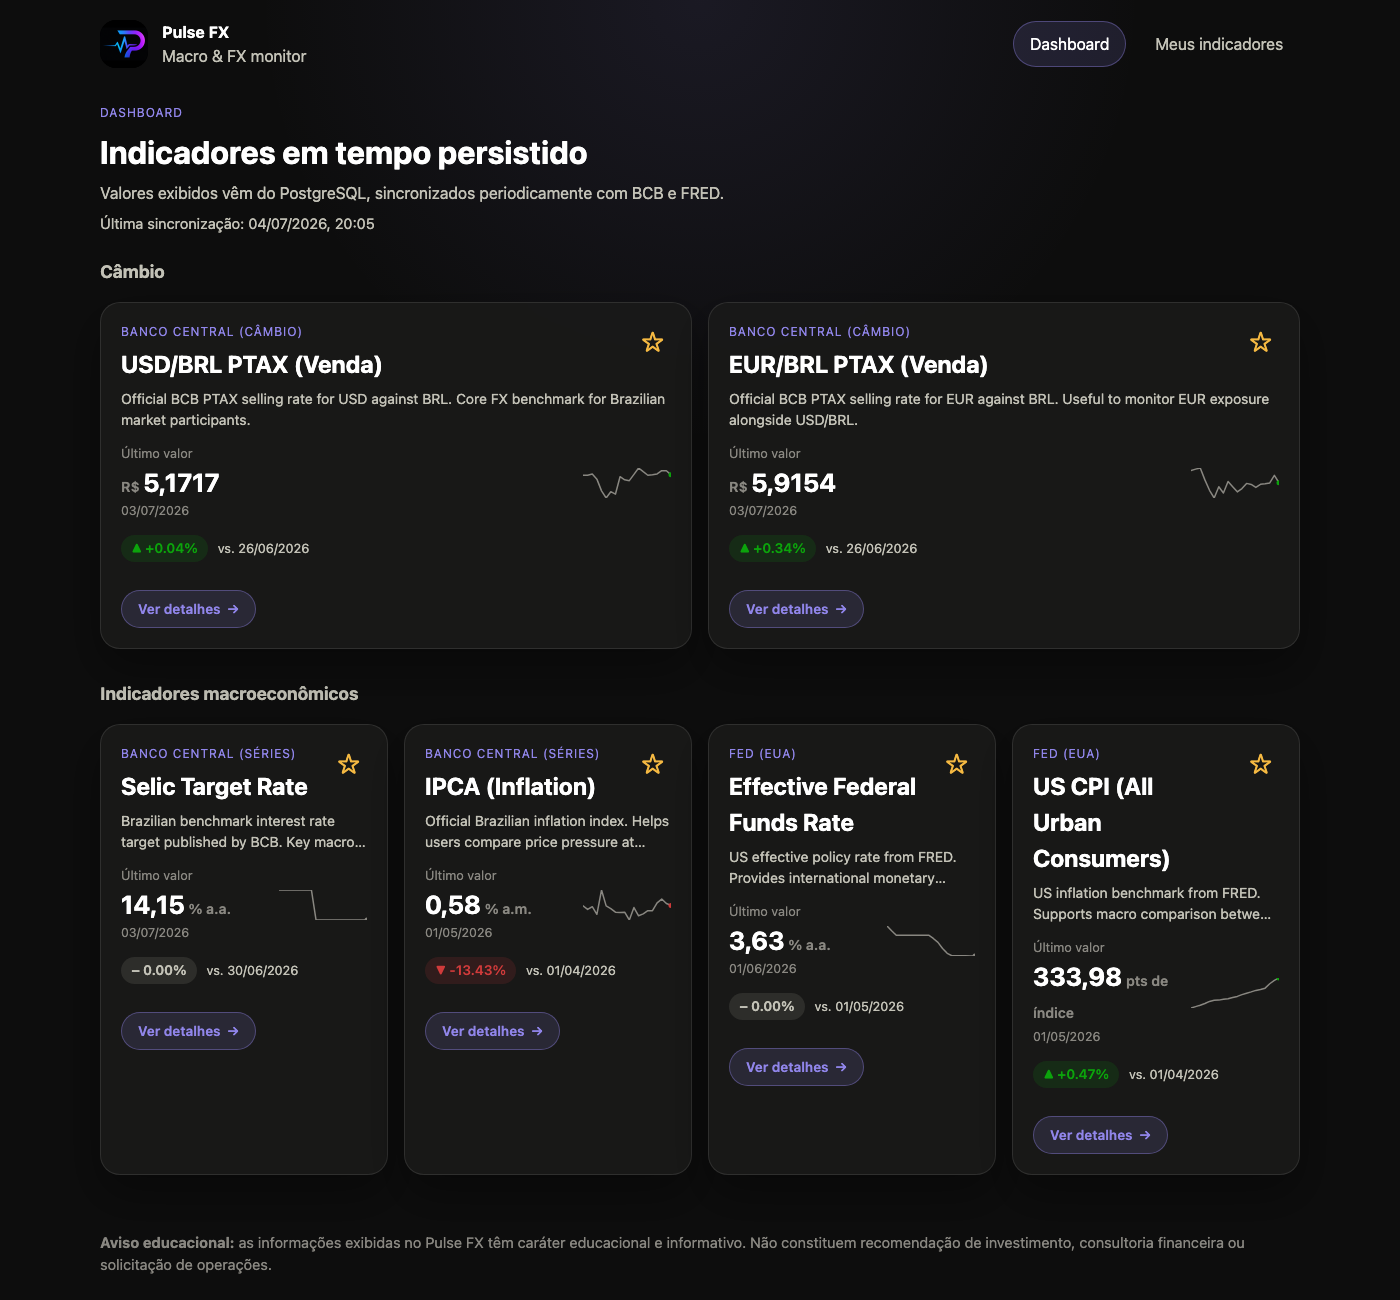
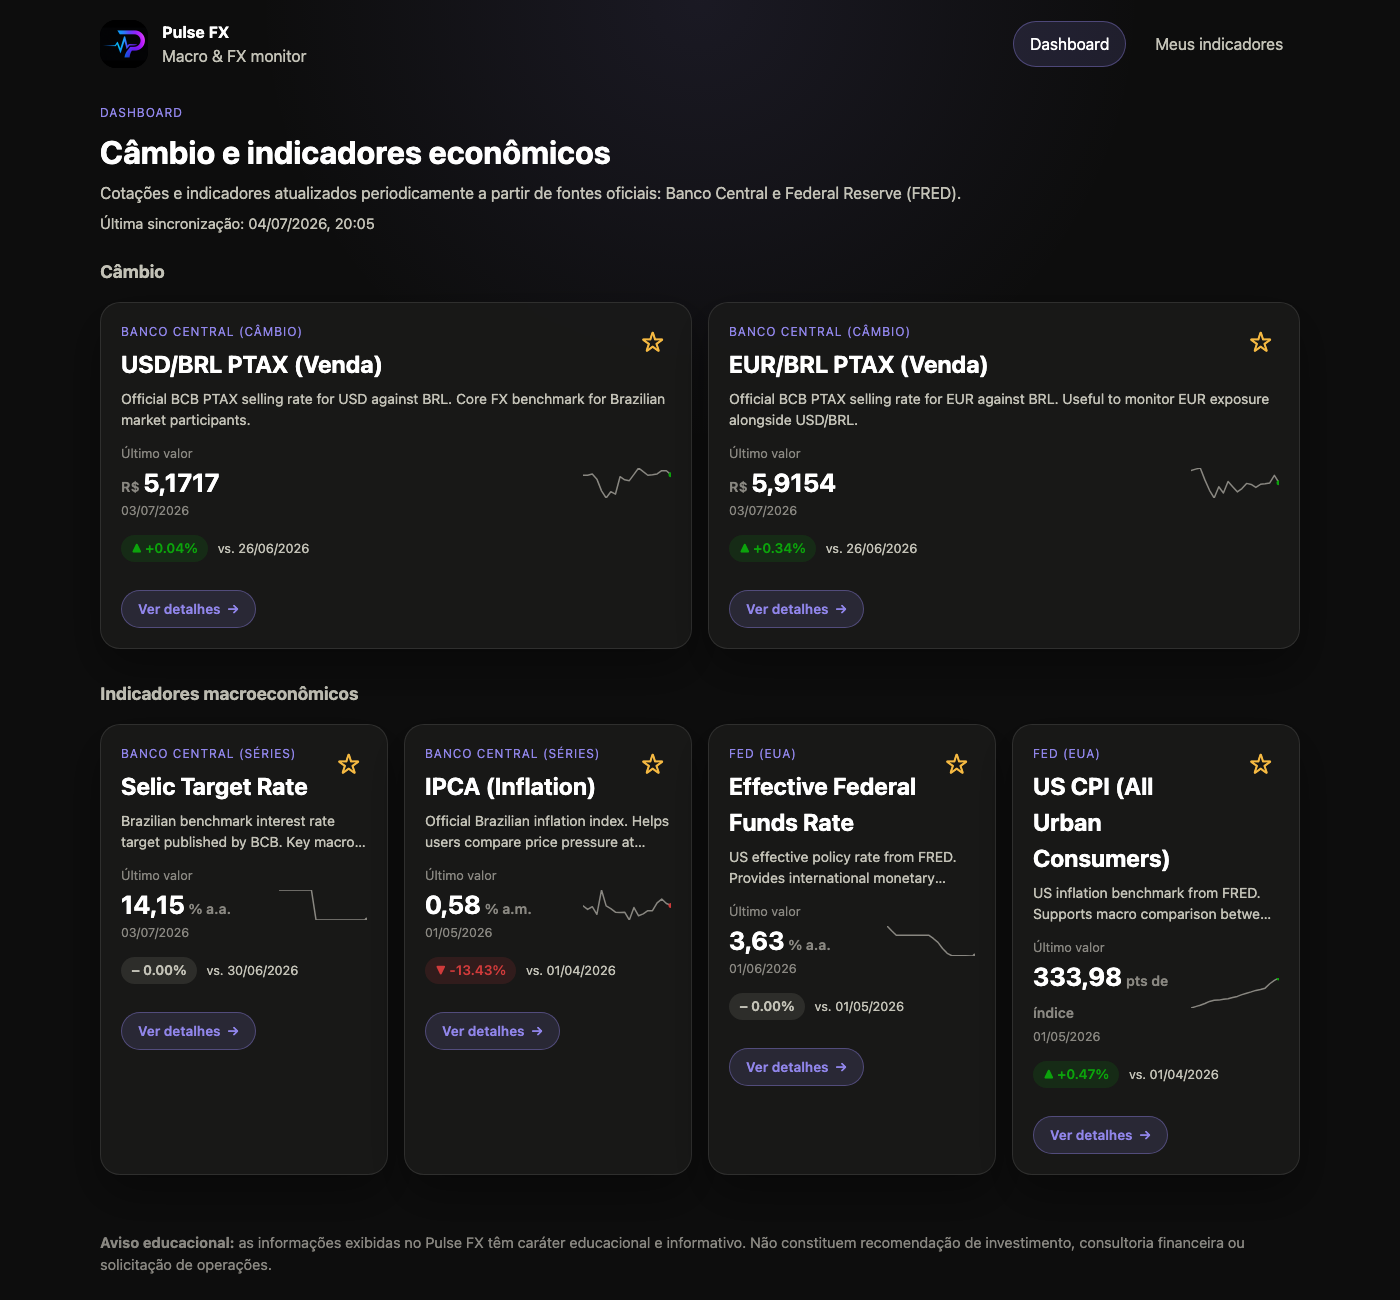
fix(web): stop leaking backend implementation details into user copy
An end user reading the dashboard doesn't care that values come from
"PostgreSQL" or that favorites are keyed by an anonymous "client_id" —
those are implementation details, not something a non-technical reader
needs. Reworded the always-visible headings/subtitles on the dashboard
and favorites page to describe what the product does for the reader
instead of how it's built underneath.

Left the empty-seed hints (POST /admin/sync, RUN_INITIAL_SYNC) as-is:
that state is only ever reached by whoever is setting up the project
locally, so the actionable technical instruction is the right call
there, not a generic message.

Changed region(s): [[0.0614, 0.0923, 0.6757, 0.1538]]

diff --git a/apps/web/src/features/dashboard/DashboardPage.tsx b/apps/web/src/features/dashboard/DashboardPage.tsx
@@ -102,7 +102,7 @@ export function DashboardPage() {
   if (indicatorsQuery.isError) {
     return (
       <div className="state-panel state-error">
-        Não foi possível carregar os indicadores. Verifique se a API está disponível.
+        Não foi possível carregar os indicadores. Tente novamente em instantes.
       </div>
     );
   }
@@ -126,9 +126,10 @@ export function DashboardPage() {
       <header className="page-header">
         <div>
           <p className="eyebrow">Dashboard</p>
-          <h1>Indicadores em tempo persistido</h1>
+          <h1>Câmbio e indicadores econômicos</h1>
           <p className="page-subtitle">
-            Valores exibidos vêm do PostgreSQL, sincronizados periodicamente com BCB e FRED.
+            Cotações e indicadores atualizados periodicamente a partir de fontes oficiais: Banco
+            Central e Federal Reserve (FRED).
           </p>
           {lastSyncedAt ? (
             <p className="sync-meta">Última sincronização: {formatDateTime(lastSyncedAt)}</p>

diff --git a/apps/web/src/features/favorites/FavoritesPage.tsx b/apps/web/src/features/favorites/FavoritesPage.tsx
@@ -22,9 +22,10 @@ export function FavoritesPage() {
       <header className="page-header">
         <div>
           <p className="eyebrow">Meus indicadores</p>
-          <h1>Favoritos persistidos no backend</h1>
+          <h1>Seus indicadores favoritos</h1>
           <p className="page-subtitle">
-            Seus favoritos ficam associados a um identificador anônimo de cliente (`client_id`).
+            Seus favoritos ficam salvos neste navegador e continuam disponíveis mesmo depois de
+            recarregar a página.
           </p>
         </div>
       </header>